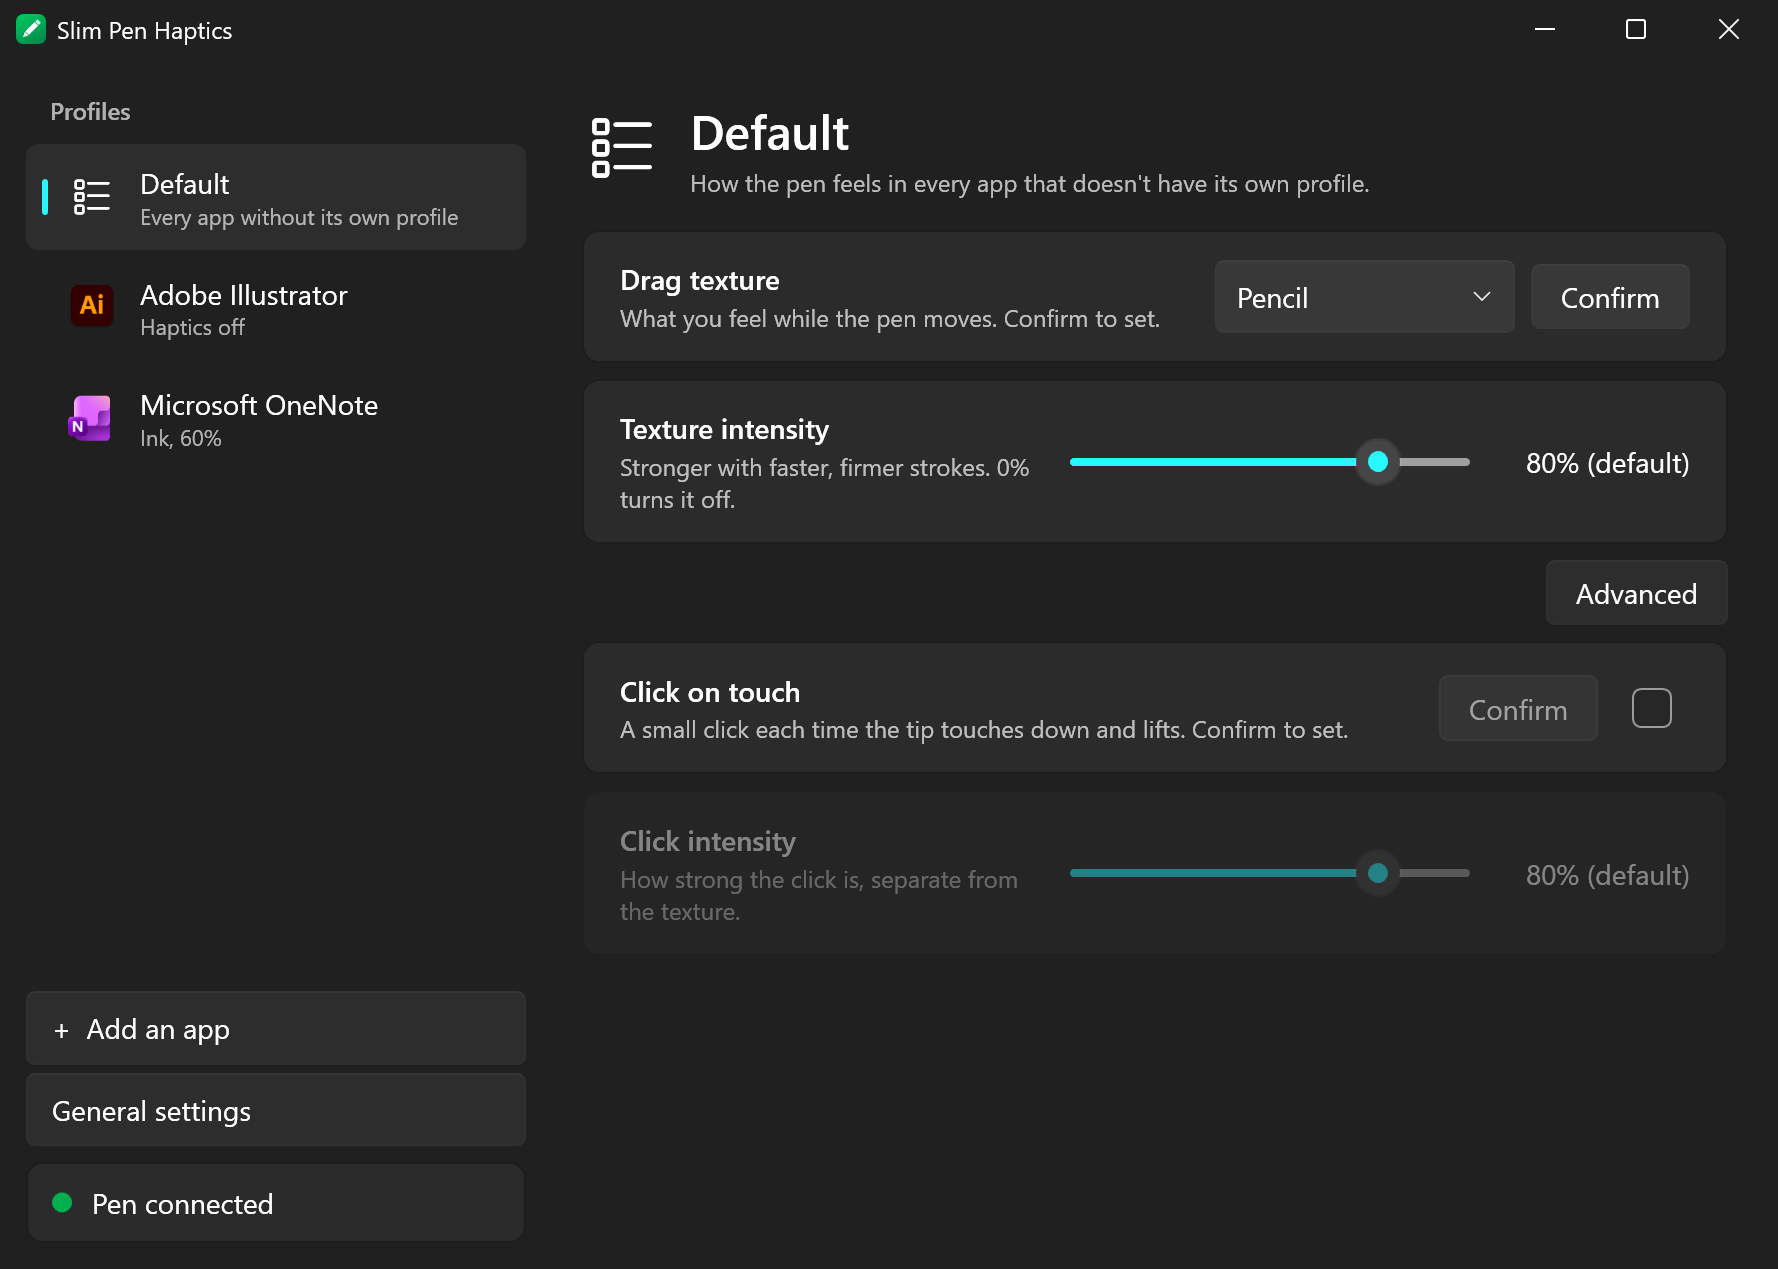
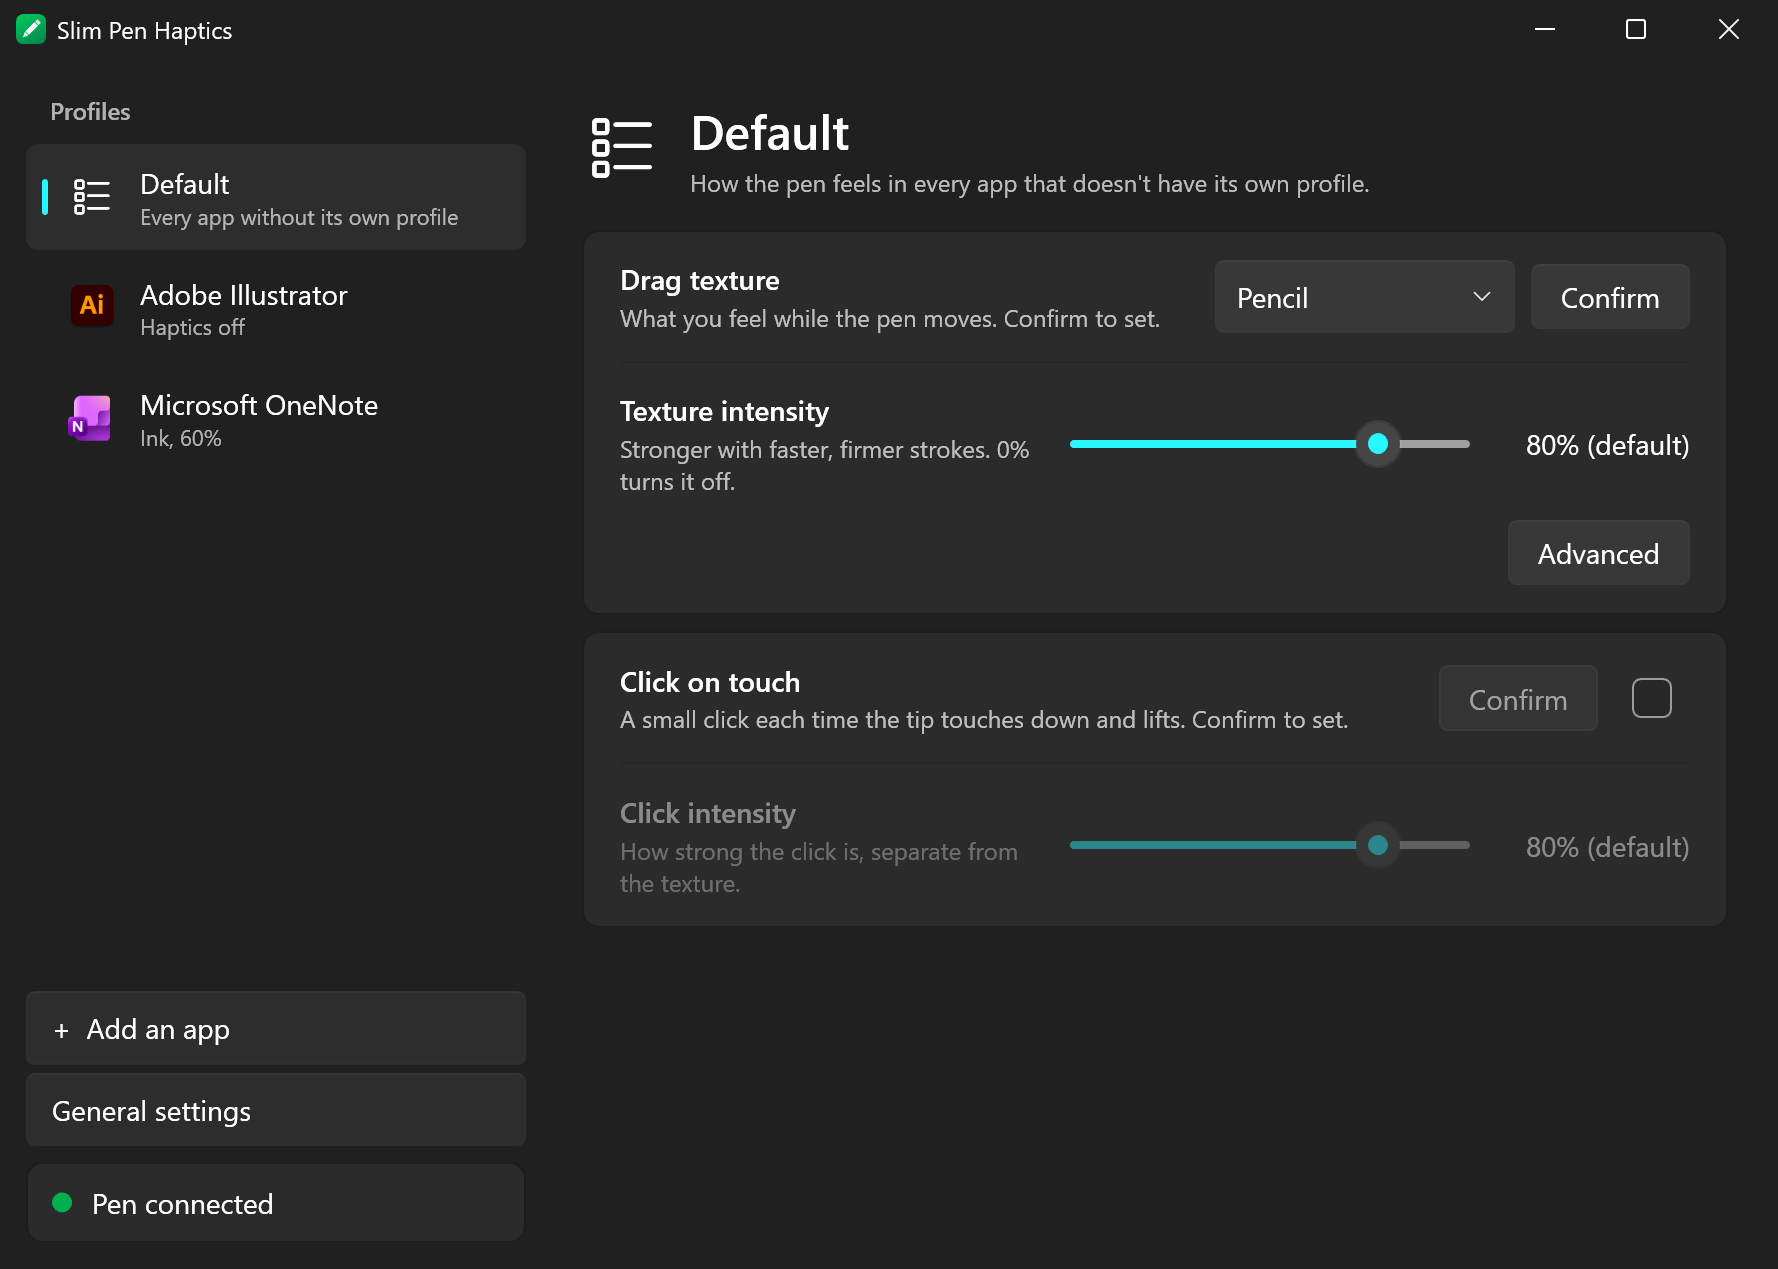
README: screenshots for 2.3.1

diff --git a/README.md b/README.md
@@ -11,7 +11,7 @@ The Slim Pen 2 has a haptic motor that makes drawing feel like pen on paper, but
 ## What you get
 
 - **Drag texture:** a continuous vibration while the pen moves, stronger with stroke speed and pressure, quiet when the pen rests. Choose Ink, Pencil, Marker or Brush, and press **Confirm** to feel it on the pen without drawing.
-- **Per-app profiles:** give any app its own texture and intensity, or turn haptics off in apps that already have their own (so the two don't stack). The app switches automatically based on where you're drawing.
+- **Per-app profiles:** give any app its own texture and intensity, or turn haptics off in apps that already have their own (so the two don't stack); the texture and click settings then step out of the way. The app switches automatically based on where you're drawing.
 - **Response tuning:** under Advanced, set how sensitive the texture is to stroke speed, how strong the slowest stroke feels, and how much pressure adds, with a live graph of the result. Each profile has its own.
 - **Pen tip tool:** tell each app's profile the shortcut of the tool you normally draw with, and the eraser and side button below know where to return to.
 - **Eraser shortcut:** for apps that ignore the pen's eraser end, flipping the pen presses that app's eraser shortcut for you, and flipping back returns to the tool you were on. Optional, set per app, and switched on with a checkbox.
@@ -23,19 +23,19 @@ The Slim Pen 2 has a haptic motor that makes drawing feel like pen on paper, but
 - A settings window in the Windows 11 style, with light and dark mode.
 
 <p align="center">
-  <img src="assets/screenshots/default-profile.png" width="760" alt="The Default profile: Pencil texture, intensity at 80%, click on touch off. It applies to every app without its own profile.">
+  <img src="assets/screenshots/default-profile.png" width="760" alt="The Default profile: one card with Pencil texture, intensity at 80% and an Advanced button, and one card with click on touch off. It applies to every app without its own profile.">
 </p>
 
 <p align="center">
-  <img src="assets/screenshots/pen-tools.png" width="760" alt="The Adobe Illustrator profile with haptics off and all the pen shortcuts set up. Pen tip tool is B. Eraser shortcut is on, set to Shift+E. Side button tools is on, with a loop running from Pen tip B to N, P and Shift+B, each with a red remove button, and a green plus button to add another. Top button is on, with Click set to Ctrl+Z, Double-click to Ctrl+Shift+Z and Hold to H.">
+  <img src="assets/screenshots/pen-tools.png" width="760" alt="The Adobe Illustrator profile with haptics off, so only the pen shortcuts show, all set up. Pen tip tool is B. Eraser shortcut is on, set to Shift+E. Side button tools is on, with a loop running from Pen tip B to N, P and Shift+B, each with a red remove button, and a green plus button to add another. Top button is on, with Click set to Ctrl+Z, Double-click to Ctrl+Shift+Z and Hold to H.">
 </p>
 
 <p align="center">
-  <img src="assets/screenshots/response-tuning.png" width="760" alt="The Advanced section open on the Default profile: sliders for Sensitivity, Minimum strength and Pressure effect, each at 50%, beside a graph of strength against stroke speed with one line for a firm press and one for a light press.">
+  <img src="assets/screenshots/response-tuning.png" width="760" alt="The Advanced section open inside the texture card on the Default profile: sliders for Sensitivity, Minimum strength and Pressure effect, each at 50%, beside a graph of strength against stroke speed with one line for a firm press and one for a light press.">
 </p>
 
 <p align="center">
-  <img src="assets/screenshots/whats-new.png" width="430" alt="The What's new window shown after updating to 2.3.0, listing Side button tools, Top button shortcuts, Pen tip tool, Tidier eraser shortcut and the What's new window itself, with a Got it button.">
+  <img src="assets/screenshots/whats-new.png" width="430" alt="The What's new window shown after updating to 2.3.1, listing A tidier profile page, Nothing greyed out, Clearer switches and A new home on GitHub, with a Got it button.">
 </p>
 
 ## Download and run
@@ -100,7 +100,7 @@ To build the installers, portable zips and update files for both architectures, 
 
 ```
 dotnet tool install -g vpk
-.\scripts\release.ps1 -Version 2.3.0
+.\scripts\release.ps1 -Version 2.3.1
 ```
 
 They are written to `artifacts\releases`. Adding `-Publish` also creates the GitHub release, which needs the `gh` command-line tool.
